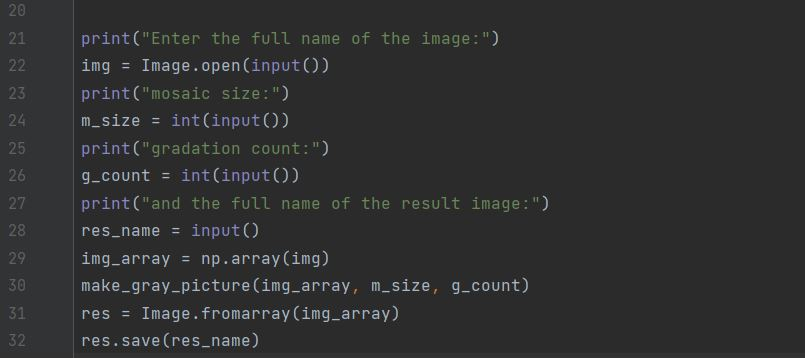
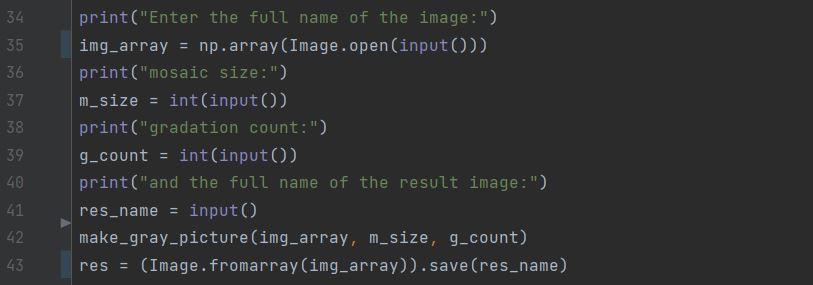
Fix filter.py and results

diff --git a/filter.py b/filter.py
@@ -2,31 +2,42 @@ from PIL import Image
 import numpy as np
 
 
-def make_gray_picture(img_arr, mosaic_size, grayscale):
-    height = len(img_arr)
-    width = len(img_arr[0])
-    gradation_step = 255 / (grayscale - 1)
-    y = 0
-    while y <= height - mosaic_size:
-        x = 0
-        while x <= width - mosaic_size:
-            sum_bright = np.sum((img_arr[y: y + mosaic_size, x: x + mosaic_size]) / 3)
-            aver_bright = int(sum_bright // (mosaic_size * mosaic_size))
-            img_arr[y: y + mosaic_size, x: x + mosaic_size] = int(aver_bright // gradation_step) * gradation_step
-            x += mosaic_size
-        y += mosaic_size
+def get_gradation_step(gr_scale):
+    return 255 / (gr_scale - 1)
+
+
+def get_average_bright(img, y, x, step):
+    sum_bright = np.sum((img[y: y + step, x: x + step]) / 3)
+    return int(sum_bright // (step * step))
+
+
+def change_picture(y_stop, x_stop, step, img_arr, grad_step):
+    for y in range(0, y_stop, step):
+        for x in range(0, x_stop, step):
+            aver_bright = get_average_bright(img_arr, y, x, step)
+            img_arr[y: y + step, x: x + step] = int(aver_bright // grad_step) * grad_step
     return img_arr
 
 
+def make_gray_picture(img_arr, mosaic_size, grayscale):
+    height = len(img_arr)
+    width = len(img_arr[0])
+    gradation_step = get_gradation_step(grayscale)
+    return change_picture(
+        height - mosaic_size + 1,
+        width - mosaic_size + 1,
+        mosaic_size,
+        img_arr,
+        gradation_step)
+
+
 print("Enter the full name of the image:")
-img = Image.open(input())
+img_array = np.array(Image.open(input()))
 print("mosaic size:")
 m_size = int(input())
 print("gradation count:")
 g_count = int(input())
 print("and the full name of the result image:")
 res_name = input()
-img_array = np.array(img)
 make_gray_picture(img_array, m_size, g_count)
-res = Image.fromarray(img_array)
-res.save(res_name)
+res = (Image.fromarray(img_array)).save(res_name)

diff --git a/filter_with_filename.py b/filter_with_filename.py
@@ -2,20 +2,33 @@ from PIL import Image
 import numpy as np
 
 
+def get_gradation_step(gr_scale):
+    return 255 / (gr_scale - 1)
+
+
+def get_average_bright(img, y, x, step):
+    sum_bright = np.sum((img[y: y + step, x: x + step]) / 3)
+    return int(sum_bright // (step * step))
+
+
+def change_picture(y_stop, x_stop, step, img_arr, grad_step):
+    for y in range(0, y_stop, step):
+        for x in range(0, x_stop, step):
+            aver_bright = get_average_bright(img_arr, y, x, step)
+            img_arr[y: y + step, x: x + step] = int(aver_bright // grad_step) * grad_step
+    return img_arr
+
+
 def make_gray_picture(img_arr, mosaic_size, grayscale):
     height = len(img_arr)
     width = len(img_arr[0])
-    gradation_step = 255 / (grayscale - 1)
-    y = 0
-    while y <= height - mosaic_size:
-        x = 0
-        while x <= width - mosaic_size:
-            sum_bright = np.sum((img_arr[y: y + mosaic_size, x: x + mosaic_size]) / 3)
-            aver_bright = int(sum_bright // (mosaic_size * mosaic_size))
-            img_arr[y: y + mosaic_size, x: x + mosaic_size] = int(aver_bright // gradation_step) * gradation_step
-            x += mosaic_size
-        y += mosaic_size
-    return img_arr
+    gradation_step = get_gradation_step(grayscale)
+    return change_picture(
+        height - mosaic_size + 1,
+        width - mosaic_size + 1,
+        mosaic_size,
+        img_arr,
+        gradation_step)
 
 
 img = Image.open("test.jpg")

diff --git a/README.md b/README.md
@@ -1,5 +1,5 @@
 # Gray_filter Отчет
-Результат работы профилирования filter.py – 25,8 секунд
+Результат работы профилирования filter.py – 18.4 секунд
 ![alt text](pictures_for_readme/filter_profile.JPG)
 Результат профилирования old_filter.py – 33,8 секунд
 ![alt text](pictures_for_readme/old_filter_profile.JPG)
@@ -14,7 +14,7 @@
 -заполненные в коде параметры в filter_with_filename.py, избавляющие от консольного ввода
 ![alt text](pictures_for_readme/filter_with_filename_without_console_enter.JPG)
 
-На выполнение filter_with_filename.py ушли рекордные 1,8 сек.
+На выполнение filter_with_filename.py ушли рекордные 0.96 секунды.
 (Так как больше не затрачивается время на сбор информации от пользователя)
 ![alt text](pictures_for_readme/filter_with_filename_profile.JPG)
 
